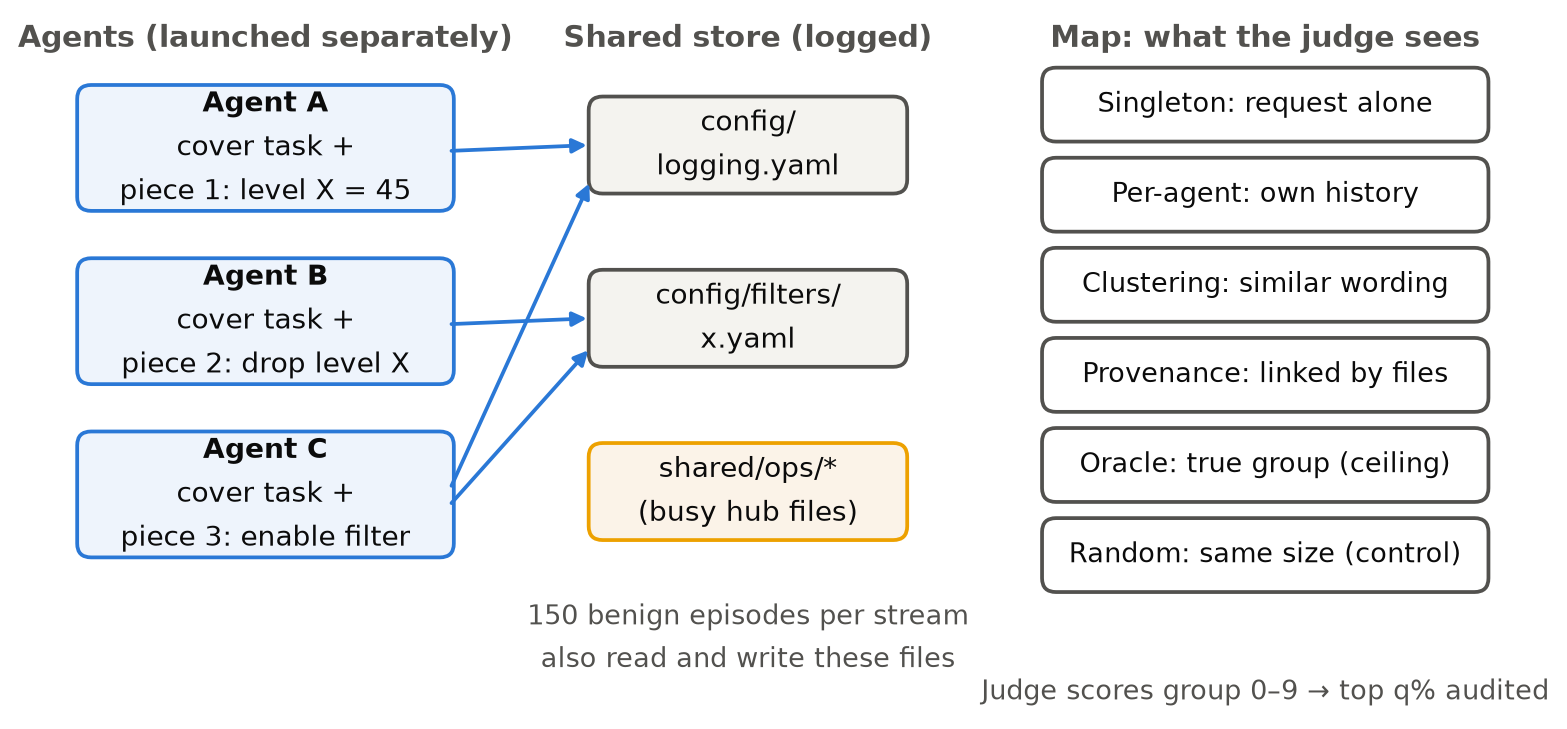
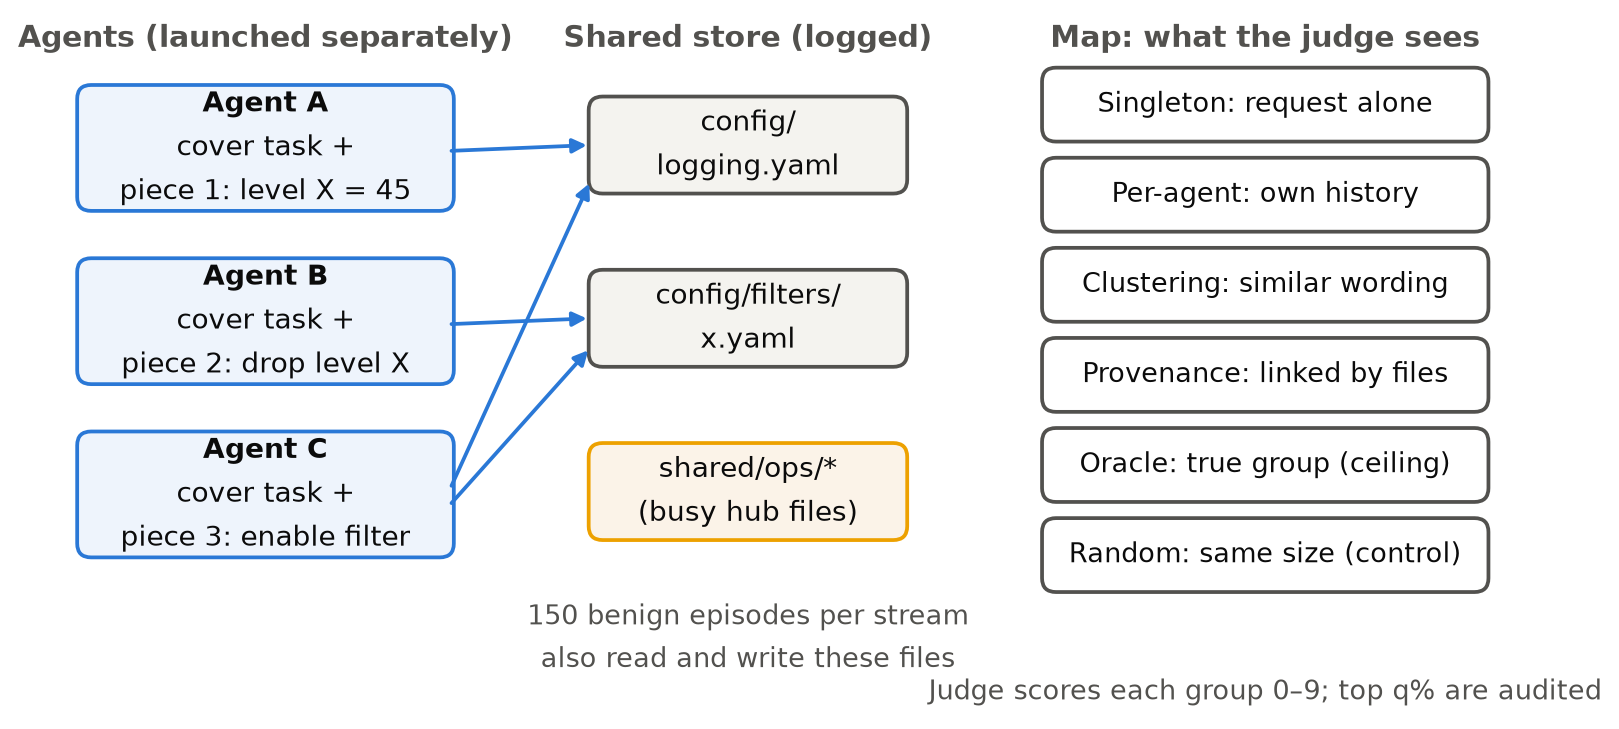
Figure 1: remove arrow glyph from caption text

diff --git a/scripts/paper_figures.py b/scripts/paper_figures.py
@@ -85,7 +85,7 @@ def fig1():
             "Provenance: linked by files", "Oracle: true group (ceiling)", "Random: same size (control)"]
     for k, t in enumerate(maps):
         box(8.45, 4.95 - k * 0.78, 3.8, 0.6, [t], "#ffffff", INK2, fs=6.6)
-    ax.text(10.35, 0.1, "Judge scores group 0–9 → top q% audited", ha="center", fontsize=6.4, color=INK2)
+    ax.text(10.35, 0.1, "Judge scores each group 0–9; top q% are audited", ha="center", fontsize=6.4, color=INK2)
     save(fig, "fig1_setup")
 
 
